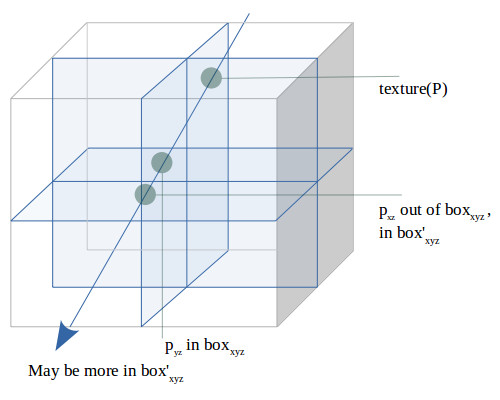
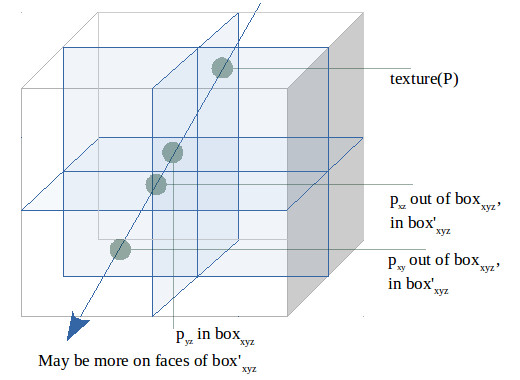
.

diff --git a/lib/xutils/shaders/sdf-boxtex.glsl.js b/lib/xutils/shaders/sdf-boxtex.glsl.js
@@ -7,6 +7,7 @@ import {glx} from './glx.glsl'
 export function texSDF(vparas = {}) {
  var {edgeWeight, xytile, yztile, xztile} = para4Layers(vparas);
 
+ // if in box, get color on yz, xz, xy
  return { fragmentShader: `
   #define WEIGHT ${edgeWeight}
 
@@ -14,12 +15,11 @@ export function texSDF(vparas = {}) {
   uniform float now;
   uniform vec4 u_hue;
 
-  varying vec3 P;
+  varying vec4 vP;
   varying vec4 vcent;
   varying vec3 vxyzOffset;
   varying float vnorth;
-  varying vec3 vsize[3];
-  varying vec2 vtiles[3];
+  varying vec3 vsize;
 
   varying float va;
   varying vec4 vColor;
@@ -52,26 +52,42 @@ export function texSDF(vparas = {}) {
     else return 0.;
   }
 
+  vec3 = fallinCube(vec4 pos, vec3 size) {
+
+  }
+
   vec4 mainImage( in vec2 fragCoord ) {
     float col = 0.;
 
     vec3 i = normalize(P - cameraPosition);
     vec3 e = cameraPosition;
 
-    for (int cx = 0; cx < ${yztile.layrs}; cx++) {
-      vec3 ci = vcent.xyz + rotateY(-vnorth, vec3(float(cx) * ${yztile.layerDist} + vxyzOffset.x, 0., 0.));
-      col += box3Color(e, i, ci, vec3(1., 0., 0.), vnorth, vsize[0], vtiles[1], WEIGHT);
+    vec3 cube = fallinCube(vP, vsize);
+
+    float d3 = box3( p_0, size * 0.5, 0.5 );
+    if (d3 > 0.) {
+      vec3 cx = cube + rotateY(-vnorth, vec3(vsize.x, 0., 0.));
+      col += box3Color(e, i, cx, vec3(1., 0., 0.), vnorth, vsize * 2., vec2(1.), WEIGHT);
+
+      vec3 cy = cube + rotateY(-vnorth, vec3(0., vsize.y, 0.));
+      col += box3Color(e, i, cy, vec3(0., 1., 0.), vnorth, vsize * 2., vec2(1.), WEIGHT);
+
+      vec3 cz = cube + rotateY(-vnorth, vec3(0., 0., vsize.z));
+      col += box3Color(e, i, cz, vec3(0., 0., 1.), vnorth, vsize * 2., vec2(1.), WEIGHT);
     }
 
-    for (int cx = 0; cx < ${xztile.layrs}; cx++) {
-      vec3 ci = vcent.xyz + rotateY(-vnorth, vec3(0., float(cx) * ${xztile.layerDist} + vxyzOffset.y, 0.));
-      col += box3Color(e, i, ci, vec3(0., 1., 0.), vnorth, vsize[1], vtiles[2], WEIGHT);
-    }
-
-    for (int cx = 0; cx < ${xytile.layrs}; cx++) {
-      vec3 ci = vcent.xyz + rotateY(-vnorth, vec3(0., 0., float(cx) * ${xytile.layerDist} + vxyzOffset.z));
-      col += box3Color(e, i, ci, vec3(0., 0., 1.), vnorth, vsize[2], vtiles[0], WEIGHT);
-    }
+    // for (int cx = 0; cx < 3; cx++) {
+    //   vec3 ci = vcent.xyz + rotateY(-vnorth, vec3(float(cx) * 20. + vxyzOffset.x, 0., 0.));
+    //   col += box3Color(e, i, ci, vec3(1., 0., 0.), vnorth, vsize[0], vtiles[1], WEIGHT);
+    // }
+    // for (int cx = 0; cx < 3; cx++) {
+    //   vec3 ci = vcent.xyz + rotateY(-vnorth, vec3(0., float(cx) * 20. + vxyzOffset.y, 0.));
+    //   col += box3Color(e, i, ci, vec3(0., 1., 0.), vnorth, vsize[1], vtiles[2], WEIGHT);
+    // }
+    // for (int cx = 0; cx < 3; cx++) {
+    //   vec3 ci = vcent.xyz + rotateY(-vnorth, vec3(0., 0., float(cx) * 20. + vxyzOffset.z));
+    //   col += box3Color(e, i, ci, vec3(0., 0., 1.), vnorth, vsize[2], vtiles[0], WEIGHT);
+    // }
 
     return u_hue * col;
   }
@@ -82,12 +98,12 @@ export function texSDF(vparas = {}) {
   }`,
 
  vertexShader: `
-
   ${glx.u_alpha}
   uniform float u_lightIntensity;
 
+  varying vec4 vP;
   varying vec3 vnormal;
-  varying vec3 vertPos;
+  // varying vec3 vertPos;
   varying float vAlpha;
   varying float vfresnel;
   varying vec2 vUv;
@@ -113,9 +129,8 @@ export function texSDF(vparas = {}) {
     vnormal = normalMatrix * normal;
     vmorphColor = morphColors();
 
-    vec4 vertPos4 = modelViewMatrix * vec4(position, 1.0);
-    vertPos = vertPos4.xyz;
-    gl_Position = projectionMatrix * vertPos4;
+    vec4 vP = modelViewMatrix * vec4(position, 1.0);
+    gl_Position = projectionMatrix * vP;
   }`,
  }
 }

diff --git a/lib/component/visual.js b/lib/component/visual.js
@@ -127,8 +127,8 @@ const ShaderFlag = {
     texPrism: 12 | f_LIGHTENED,
     /** polygon layers (tiled floor) */
     boxLayers: 15 | f_LIGHTENED,
-	/** slicing boxes in a model */
-	boxSlice: 16,
+	/** volumetric boxes texture */
+	boxTexture: 16 | f_LIGHTENED,
     /**Fragment shape */
     fragShape: 98,
 	/** Igonre the face, e.g. a plane for picking Dynatex area. */

diff --git a/lib/xutils/shaders/shape-layers.glsl.js b/lib/xutils/shaders/shape-layers.glsl.js
@@ -474,7 +474,6 @@ export function xyzLayer2(vparas) {
 
     gl_Position = projectionMatrix * viewMatrix * worldPosition;
 
-    // vec3 N = normalize(normal);
     vColor = phongLight(normal, u_lightPos, cameraPosition, worldPosition.xyz,
             u_ambientColor.xyz, u_color.xyz,
             u_specularColor.xyz,
